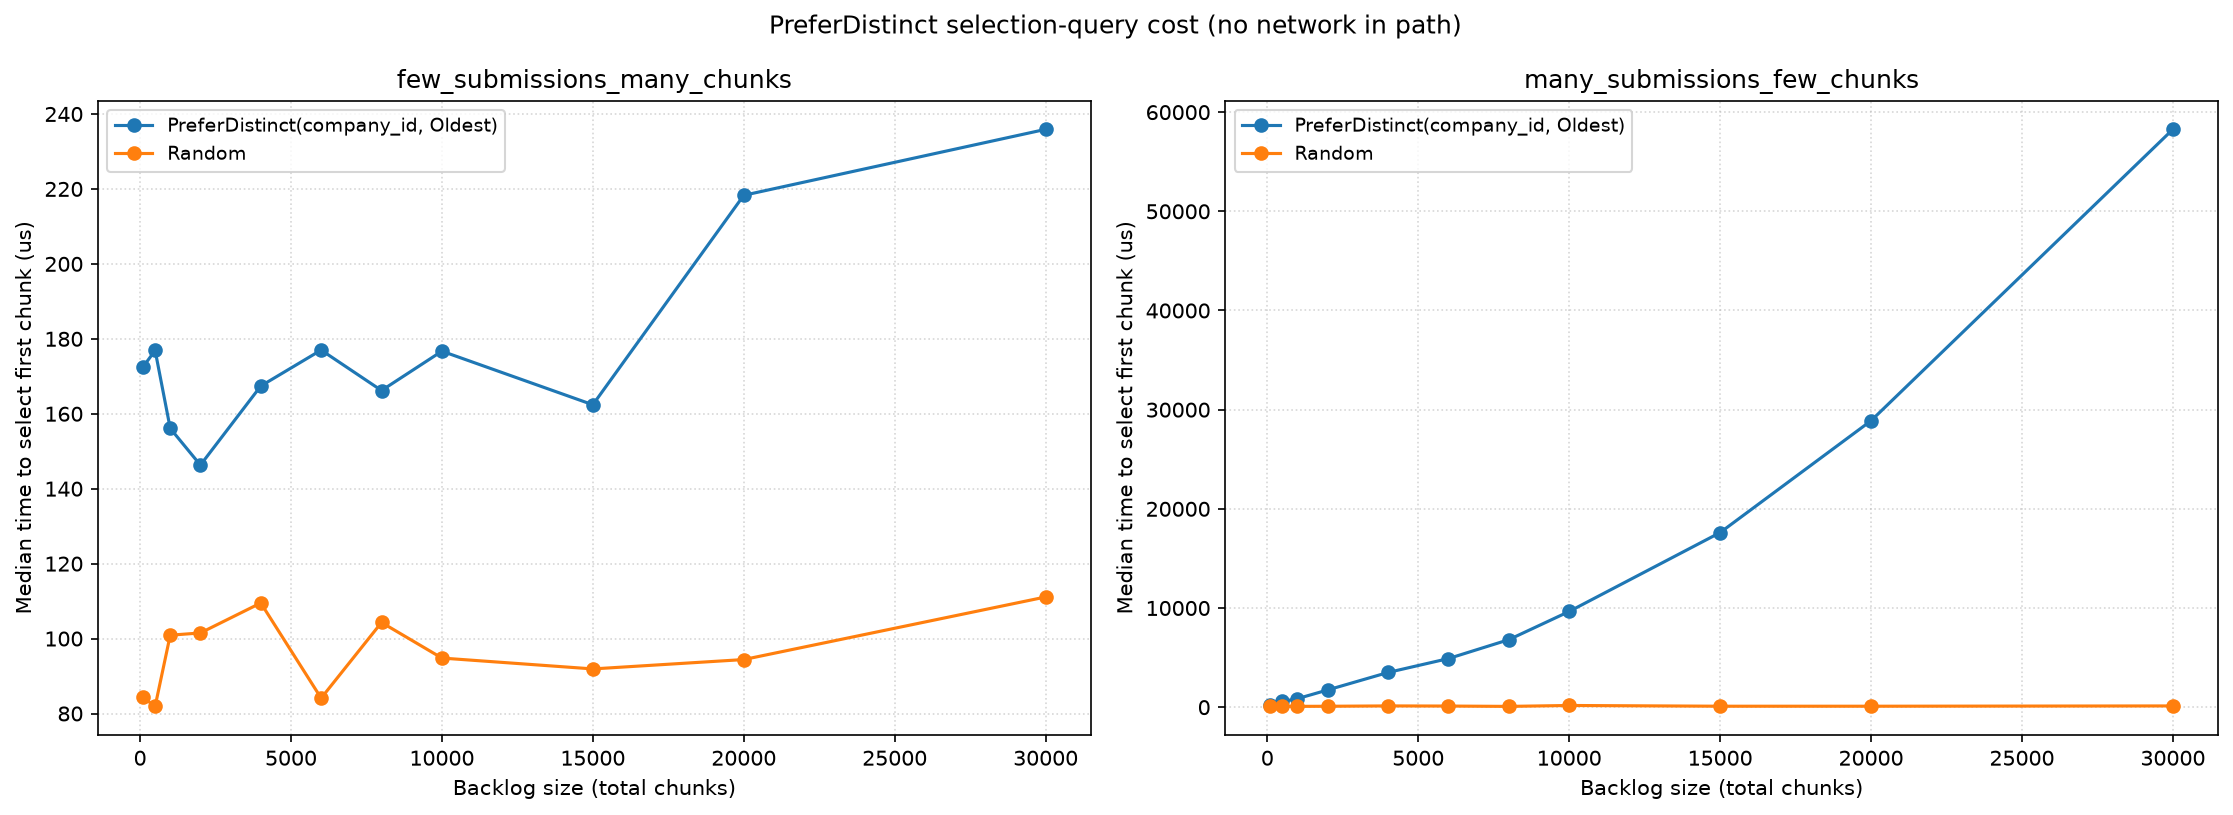
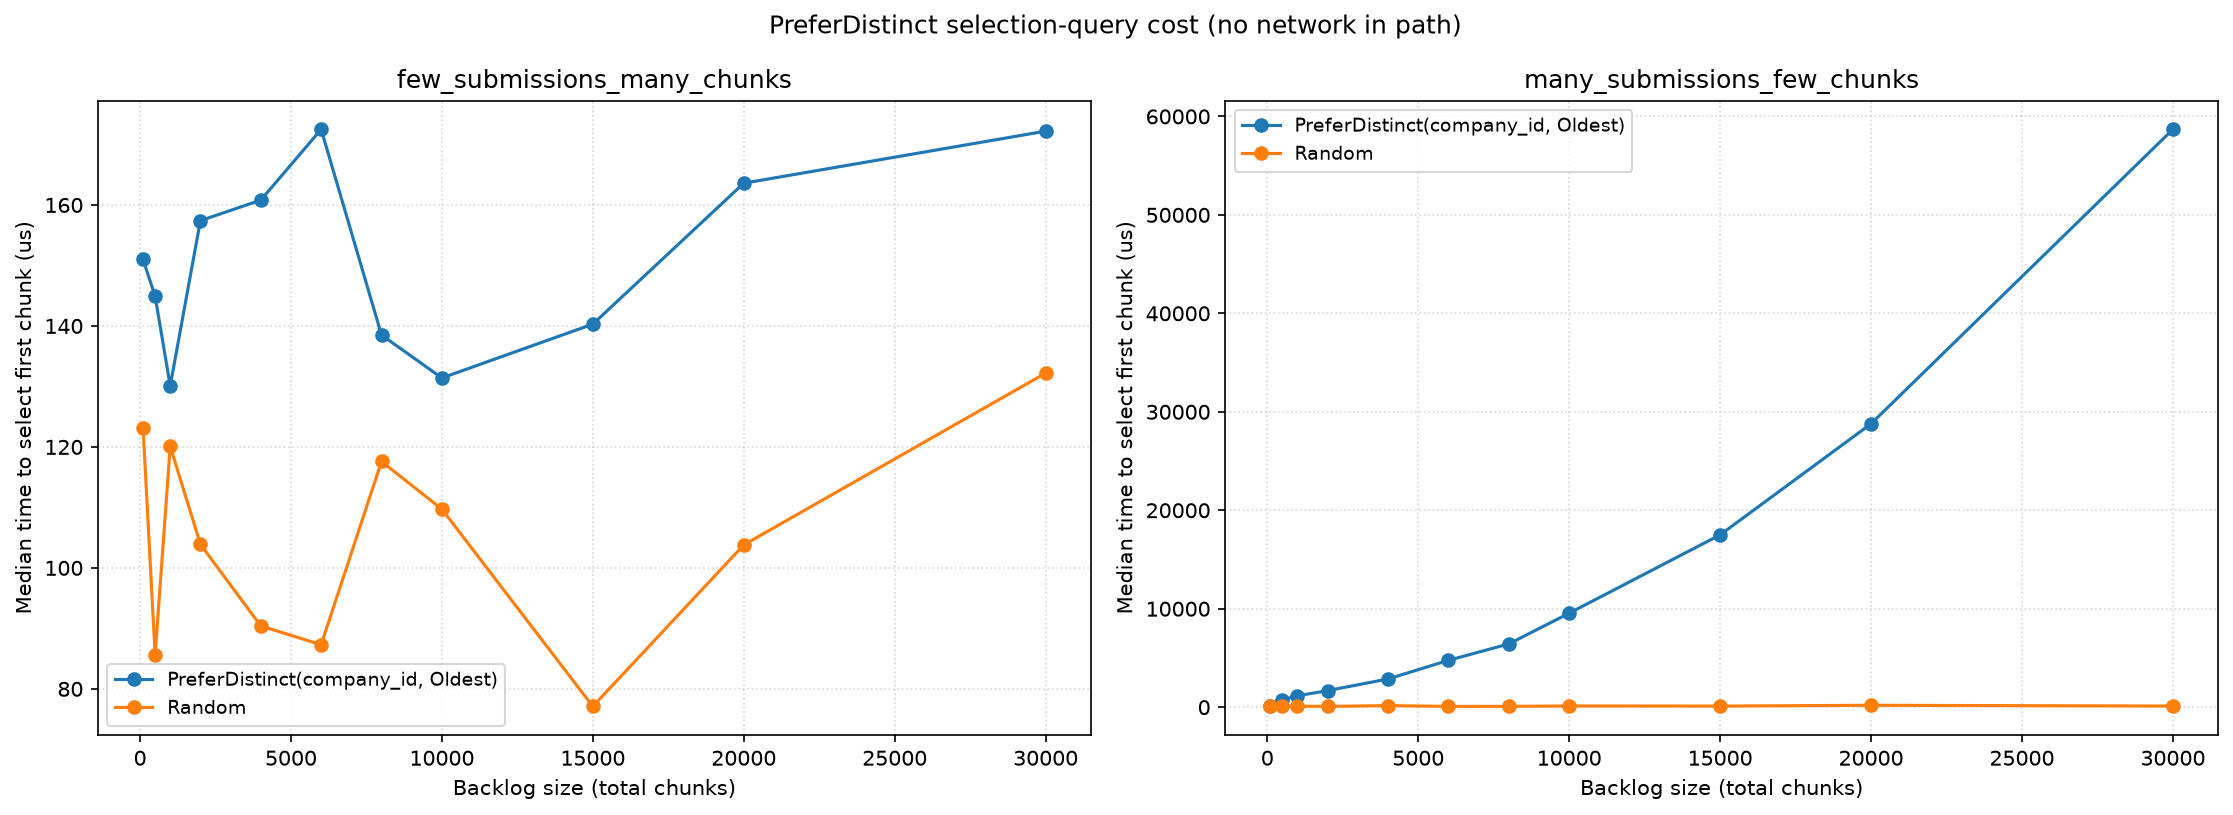
Avoid duplicate materialization

diff --git a/opsqueue/src/consumer/strategy.rs b/opsqueue/src/consumer/strategy.rs
@@ -151,12 +151,7 @@ impl Strategy {
                     qb.push(")");
                 }
                 // Submissions ranked by in-flight chunks.
-                qb.push(
-                    // MATERIALIZED is necessary to preserve the order.
-                    ", ranked_submissions AS MATERIALIZED (
-                        SELECT inner.submission_id
-                        FROM inner",
-                );
+                qb.push(" SELECT inner.submission_id FROM inner");
                 for i in 0..prefer_distinct_metakeys.len() {
                     qb.push(format_args!(
                         " LEFT JOIN counts_{i} ON inner.submission_id = counts_{i}.submission_id",
@@ -169,7 +164,7 @@ impl Strategy {
                     }
                     qb.push(format_args!("counts_{i}.count ASC NULLS FIRST"));
                 }
-                qb.push(" ) SELECT submission_id FROM ranked_submissions")
+                qb
             }
         }
     }
@@ -457,20 +452,14 @@ pub mod test {
               submissions_metadata
             WHERE
               metadata_key = ?
-          ),
-          ranked_submissions AS MATERIALIZED (
-            SELECT
-              inner.submission_id
-            FROM
-              inner
-              LEFT JOIN counts_0 ON inner.submission_id = counts_0.submission_id
-            ORDER BY
-              counts_0.count ASC NULLS FIRST
           )
           SELECT
-            submission_id
+            inner.submission_id
           FROM
-            ranked_submissions
+            inner
+            LEFT JOIN counts_0 ON inner.submission_id = counts_0.submission_id
+          ORDER BY
+            counts_0.count ASC NULLS FIRST
         )
         SELECT
           chunks.*
@@ -521,20 +510,14 @@ pub mod test {
               submissions_metadata
             WHERE
               metadata_key = ?
-          ),
-          ranked_submissions AS MATERIALIZED (
-            SELECT
-              inner.submission_id
-            FROM
-              inner
-              LEFT JOIN counts_0 ON inner.submission_id = counts_0.submission_id
-            ORDER BY
-              counts_0.count ASC NULLS FIRST
           )
           SELECT
-            submission_id
+            inner.submission_id
           FROM
-            ranked_submissions
+            inner
+            LEFT JOIN counts_0 ON inner.submission_id = counts_0.submission_id
+          ORDER BY
+            counts_0.count ASC NULLS FIRST
         )
         SELECT
           chunks.*
@@ -550,13 +533,11 @@ pub mod test {
         assert_streaming_chunks(qb, &explained);
         insta::assert_snapshot!(explained, @"
         3, 0, MATERIALIZE underlying_submissions
-        6, 3, MATERIALIZE ranked_submissions
-        11, 6, SCAN submissions USING COVERING INDEX sqlite_autoindex_submissions_1
-        13, 6, SEARCH submissions_metadata USING PRIMARY KEY (submission_id=? AND metadata_key=?) LEFT-JOIN
-        35, 6, USE TEMP B-TREE FOR ORDER BY
-        47, 3, SCAN ranked_submissions
-        58, 0, SCAN underlying_submissions
-        60, 0, SEARCH chunks USING PRIMARY KEY (submission_id=?)
+        8, 3, SCAN submissions USING COVERING INDEX sqlite_autoindex_submissions_1
+        10, 3, SEARCH submissions_metadata USING PRIMARY KEY (submission_id=? AND metadata_key=?) LEFT-JOIN
+        32, 3, USE TEMP B-TREE FOR ORDER BY
+        44, 0, SCAN underlying_submissions
+        46, 0, SEARCH chunks USING PRIMARY KEY (submission_id=?)
         ");
     }
 
@@ -605,20 +586,14 @@ pub mod test {
               submissions_metadata
             WHERE
               metadata_key = ?
-          ),
-          ranked_submissions AS MATERIALIZED (
-            SELECT
-              inner.submission_id
-            FROM
-              inner
-              LEFT JOIN counts_0 ON inner.submission_id = counts_0.submission_id
-            ORDER BY
-              counts_0.count ASC NULLS FIRST
           )
           SELECT
-            submission_id
+            inner.submission_id
           FROM
-            ranked_submissions
+            inner
+            LEFT JOIN counts_0 ON inner.submission_id = counts_0.submission_id
+          ORDER BY
+            counts_0.count ASC NULLS FIRST
         )
         SELECT
           chunks.*
@@ -634,19 +609,17 @@ pub mod test {
         assert_streaming_chunks(qb, &explained);
         insta::assert_snapshot!(explained, @"
         3, 0, MATERIALIZE underlying_submissions
-        6, 3, MATERIALIZE ranked_submissions
-        8, 6, CO-ROUTINE inner
-        9, 8, COMPOUND QUERY
-        10, 9, LEFT-MOST SUBQUERY
-        13, 10, SEARCH submissions USING INDEX random_submissions_order (random_order>?)
-        22, 9, UNION ALL
-        25, 22, SEARCH submissions USING INDEX random_submissions_order (random_order<?)
-        39, 6, SCAN inner
-        42, 6, SEARCH submissions_metadata USING PRIMARY KEY (submission_id=? AND metadata_key=?) LEFT-JOIN
-        65, 6, USE TEMP B-TREE FOR ORDER BY
-        77, 3, SCAN ranked_submissions
-        88, 0, SCAN underlying_submissions
-        90, 0, SEARCH chunks USING PRIMARY KEY (submission_id=?)
+        5, 3, CO-ROUTINE inner
+        6, 5, COMPOUND QUERY
+        7, 6, LEFT-MOST SUBQUERY
+        10, 7, SEARCH submissions USING INDEX random_submissions_order (random_order>?)
+        19, 6, UNION ALL
+        22, 19, SEARCH submissions USING INDEX random_submissions_order (random_order<?)
+        36, 3, SCAN inner
+        39, 3, SEARCH submissions_metadata USING PRIMARY KEY (submission_id=? AND metadata_key=?) LEFT-JOIN
+        62, 3, USE TEMP B-TREE FOR ORDER BY
+        74, 0, SCAN underlying_submissions
+        76, 0, SEARCH chunks USING PRIMARY KEY (submission_id=?)
         ");
     }
 
@@ -701,22 +674,16 @@ pub mod test {
               submissions_metadata
             WHERE
               metadata_key = ?
-          ),
-          ranked_submissions AS MATERIALIZED (
-            SELECT
-              inner.submission_id
-            FROM
-              inner
-              LEFT JOIN counts_0 ON inner.submission_id = counts_0.submission_id
-              LEFT JOIN counts_1 ON inner.submission_id = counts_1.submission_id
-            ORDER BY
-              counts_0.count ASC NULLS FIRST,
-              counts_1.count ASC NULLS FIRST
           )
           SELECT
-            submission_id
+            inner.submission_id
           FROM
-            ranked_submissions
+            inner
+            LEFT JOIN counts_0 ON inner.submission_id = counts_0.submission_id
+            LEFT JOIN counts_1 ON inner.submission_id = counts_1.submission_id
+          ORDER BY
+            counts_0.count ASC NULLS FIRST,
+            counts_1.count ASC NULLS FIRST
         )
         SELECT
           chunks.*
@@ -732,27 +699,23 @@ pub mod test {
         assert_streaming_chunks(qb, &explained);
         insta::assert_snapshot!(explained, @"
         3, 0, MATERIALIZE underlying_submissions
-        6, 3, MATERIALIZE ranked_submissions
-        12, 6, SCAN submissions USING COVERING INDEX sqlite_autoindex_submissions_1
-        14, 6, SEARCH submissions_metadata USING PRIMARY KEY (submission_id=? AND metadata_key=?) LEFT-JOIN
-        23, 6, SEARCH submissions_metadata USING PRIMARY KEY (submission_id=? AND metadata_key=?) LEFT-JOIN
-        53, 6, USE TEMP B-TREE FOR ORDER BY
-        65, 3, SCAN ranked_submissions
-        76, 0, SCAN underlying_submissions
-        78, 0, SEARCH chunks USING PRIMARY KEY (submission_id=?)
+        9, 3, SCAN submissions USING COVERING INDEX sqlite_autoindex_submissions_1
+        11, 3, SEARCH submissions_metadata USING PRIMARY KEY (submission_id=? AND metadata_key=?) LEFT-JOIN
+        20, 3, SEARCH submissions_metadata USING PRIMARY KEY (submission_id=? AND metadata_key=?) LEFT-JOIN
+        50, 3, USE TEMP B-TREE FOR ORDER BY
+        62, 0, SCAN underlying_submissions
+        64, 0, SEARCH chunks USING PRIMARY KEY (submission_id=?)
         ");
 
         let explained = explain(qb, &mut conn).await;
         insta::assert_snapshot!(explained, @"
         3, 0, MATERIALIZE underlying_submissions
-        6, 3, MATERIALIZE ranked_submissions
-        12, 6, SCAN submissions USING COVERING INDEX sqlite_autoindex_submissions_1
-        14, 6, SEARCH submissions_metadata USING PRIMARY KEY (submission_id=? AND metadata_key=?) LEFT-JOIN
-        23, 6, SEARCH submissions_metadata USING PRIMARY KEY (submission_id=? AND metadata_key=?) LEFT-JOIN
-        53, 6, USE TEMP B-TREE FOR ORDER BY
-        65, 3, SCAN ranked_submissions
-        76, 0, SCAN underlying_submissions
-        78, 0, SEARCH chunks USING PRIMARY KEY (submission_id=?)
+        9, 3, SCAN submissions USING COVERING INDEX sqlite_autoindex_submissions_1
+        11, 3, SEARCH submissions_metadata USING PRIMARY KEY (submission_id=? AND metadata_key=?) LEFT-JOIN
+        20, 3, SEARCH submissions_metadata USING PRIMARY KEY (submission_id=? AND metadata_key=?) LEFT-JOIN
+        50, 3, USE TEMP B-TREE FOR ORDER BY
+        62, 0, SCAN underlying_submissions
+        64, 0, SEARCH chunks USING PRIMARY KEY (submission_id=?)
         ");
     }
 